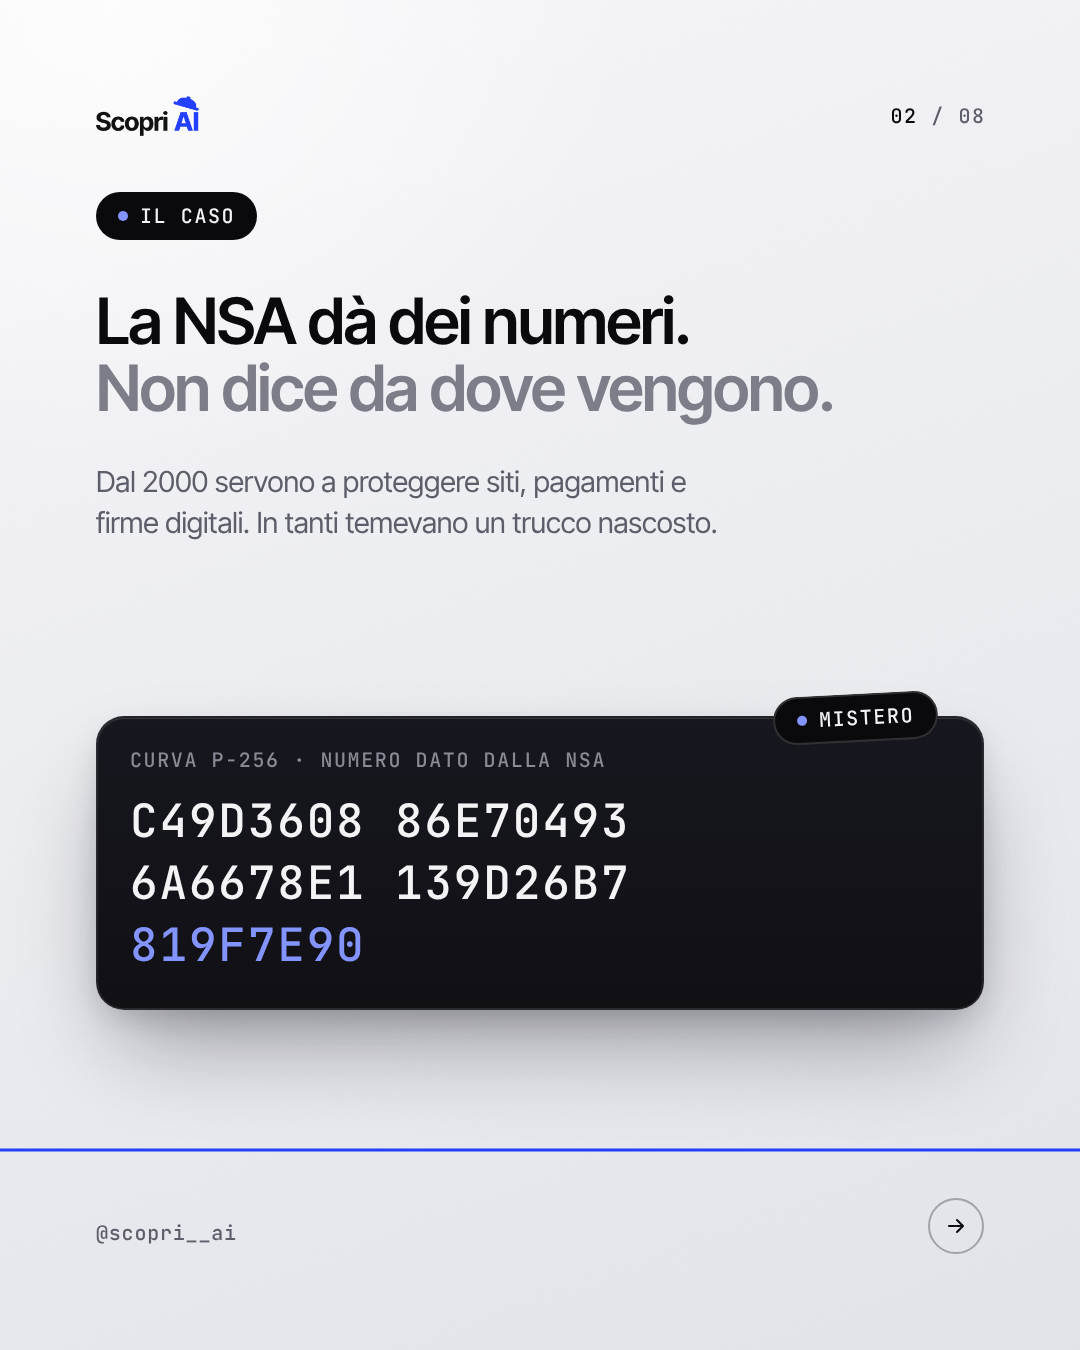
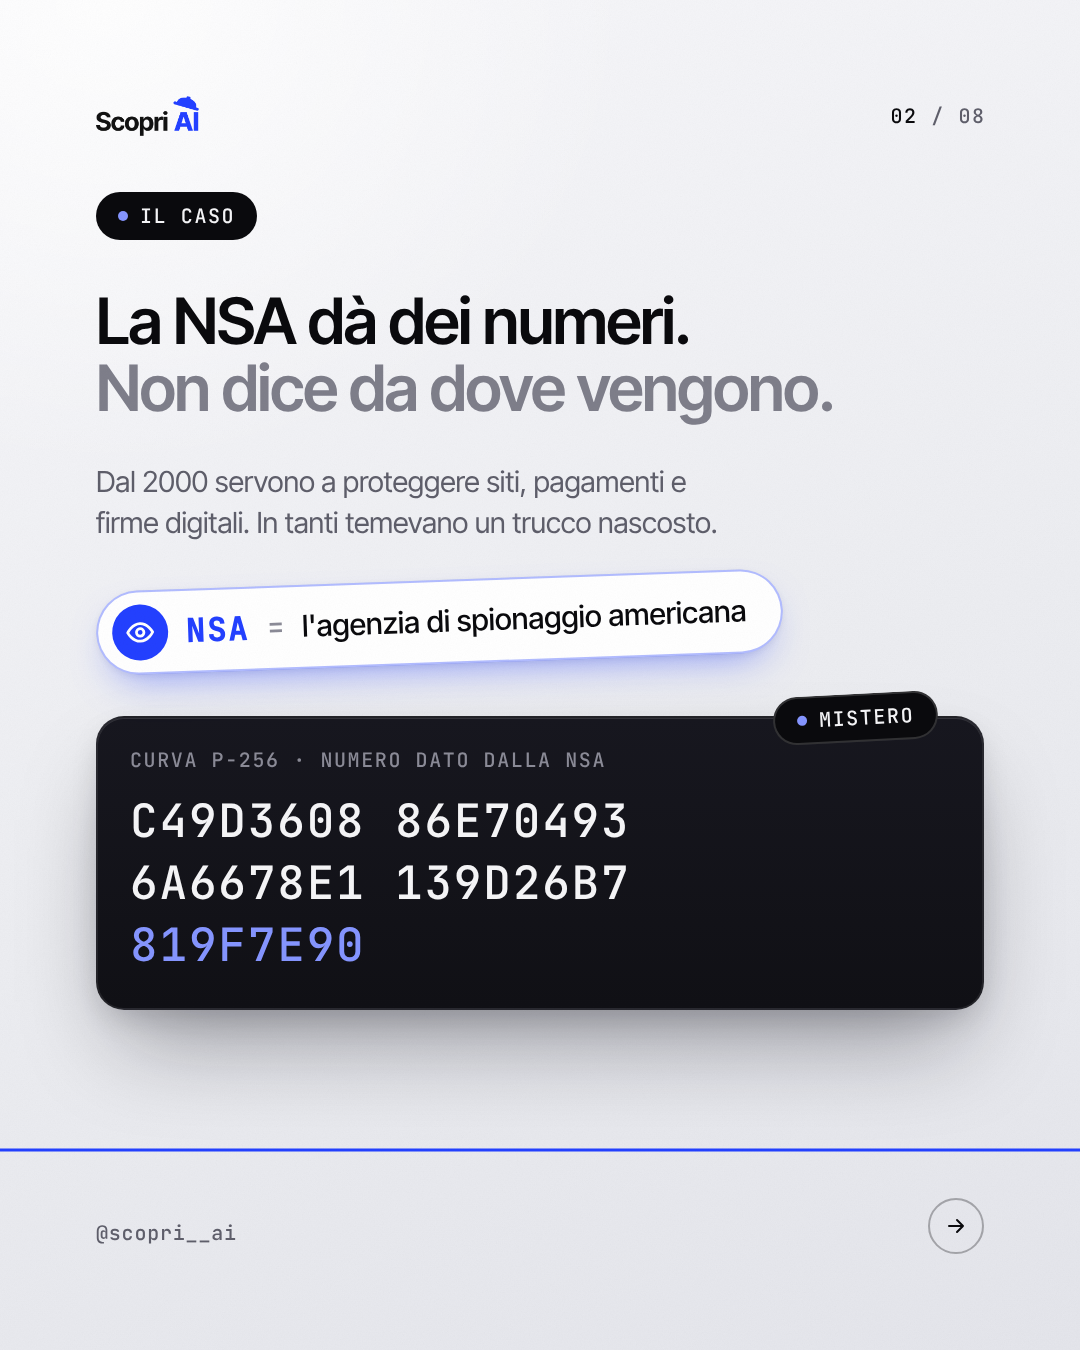
Carosello NSA: etichetta "NSA = l'agenzia di spionaggio americana" nella slide 2
Claude-Session: https://claude.ai/code/session_01TwUVy1W6eFN9BDG4XynW19

Changed region(s): [[0.0917, 0.4356, 0.7333, 0.5289]]

diff --git a/carousels/2026-10-17-news-claude-numeri-nsa/index.html b/carousels/2026-10-17-news-claude-numeri-nsa/index.html
@@ -29,6 +29,13 @@
 .steps .ic.ok{background:rgba(61,220,132,.16);border-color:rgba(61,220,132,.6)}
 .steps .ic.ok svg{stroke:var(--signal-500)}
 .steps .sep{width:28px;height:28px;flex:none;fill:none;stroke:var(--gray-400);stroke-width:2;stroke-linecap:round;stroke-linejoin:round}
+/* "what is the NSA" label (slide 2) */
+.defn{position:absolute;z-index:7;left:96px;top:580px;height:84px;padding:0 34px 0 14px;border-radius:999px;display:inline-flex;align-items:center;gap:18px;background:#fff;border:2px solid rgba(var(--accent-rgb),.35);box-shadow:0 18px 40px -18px rgba(var(--accent-rgb),.55),0 2px 6px rgba(10,10,13,.06);transform:rotate(-2deg);white-space:nowrap}
+.defn .ic{width:56px;height:56px;border-radius:50%;flex:none;display:grid;place-items:center;background:var(--accent-500)}
+.defn .ic svg{width:30px;height:30px;fill:none;stroke:#fff;stroke-width:2.2;stroke-linecap:round;stroke-linejoin:round}
+.defn b{font:800 32px/1 var(--font-meta);letter-spacing:.06em;color:var(--accent-500)}
+.defn .eq{font:500 28px/1 var(--font-meta);color:var(--gray-400)}
+.defn span.t{font:500 30px/1 var(--font-primary);color:#0A0A0D}
 /* quote slide (4) */
 .quote-src{font:500 22px/1 var(--font-meta);letter-spacing:.08em;text-transform:uppercase;color:rgba(255,255,255,.8)}
 .s4 .sticker-free{position:absolute;left:96px;top:1052px;transform:rotate(-3deg)}
@@ -89,6 +96,7 @@ D09E8800 291CB853</div>
     <h2 class="h2 qa-text" style="width:860px" data-lines="2">La NSA dà dei numeri.<br><span class="rc">Non dice da dove vengono.</span></h2>
     <p class="body qa-text" style="width:640px">Dal 2000 servono a proteggere siti, pagamenti e firme digitali. In tanti temevano un trucco nascosto.</p>
   </div>
+  <div class="defn qa-text"><span class="ic"><svg viewBox="0 0 24 24"><path d="M2 12s3.6-7 10-7 10 7 10 7-3.6 7-10 7S2 12 2 12z"/><circle cx="12" cy="12" r="3"/></svg></span><b>NSA</b><span class="eq">=</span><span class="t">l'agenzia di spionaggio americana</span></div>
   <div class="card abs seed">
     <div class="sticker">Mistero</div>
     <div class="ui-meta">Curva P-256 · numero dato dalla NSA</div>

diff --git a/archivio/2026-10-17-news-claude-numeri-nsa/copy.md b/archivio/2026-10-17-news-claude-numeri-nsa/copy.md
@@ -16,6 +16,7 @@ Modi delle slide: D L D A L D L A D (copertina e chiusura scure).
 ### 02 — Il caso (LIGHT)
 - **Pill:** Il caso · **Titolo:** La NSA dà dei numeri. *Non dice da dove vengono.*
 - **Testo:** Dal 2000 servono a proteggere siti, pagamenti e firme digitali. In tanti temevano un trucco nascosto.
+- **Etichetta:** NSA = l'agenzia di spionaggio americana (aggiunta il 17/10 dopo l'approvazione).
 - **Visual (scheda):** "Curva P-256 · numero dato dalla NSA" con il numero vero `C49D3608 86E70493 6A6678E1 139D26B7 819F7E90` · **Adesivo:** Mistero.
 
 ### 03 — La soluzione (DARK) — la cosa più forte · MP4

diff --git a/carousels/2026-10-17-news-claude-numeri-nsa/copy.md b/carousels/2026-10-17-news-claude-numeri-nsa/copy.md
@@ -16,6 +16,7 @@ Modi delle slide: D L D A L D L A D (copertina e chiusura scure).
 ### 02 — Il caso (LIGHT)
 - **Pill:** Il caso · **Titolo:** La NSA dà dei numeri. *Non dice da dove vengono.*
 - **Testo:** Dal 2000 servono a proteggere siti, pagamenti e firme digitali. In tanti temevano un trucco nascosto.
+- **Etichetta:** NSA = l'agenzia di spionaggio americana (aggiunta il 17/10 dopo l'approvazione).
 - **Visual (scheda):** "Curva P-256 · numero dato dalla NSA" con il numero vero `C49D3608 86E70493 6A6678E1 139D26B7 819F7E90` · **Adesivo:** Mistero.
 
 ### 03 — La soluzione (DARK) — la cosa più forte · MP4
